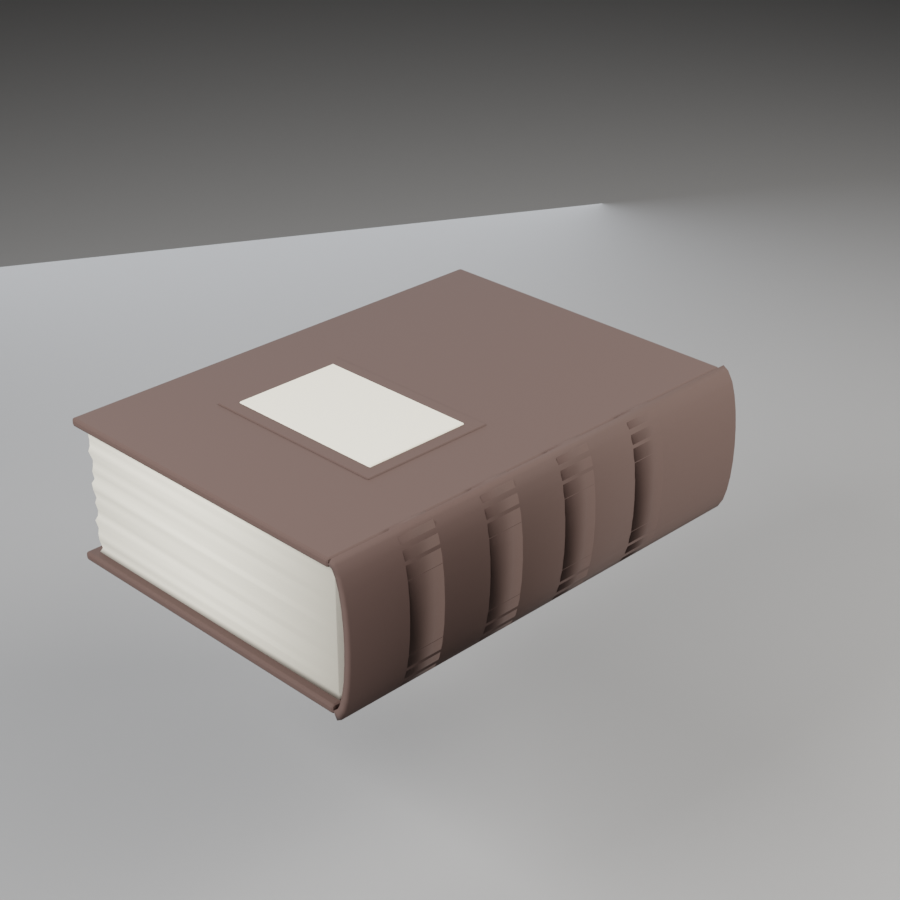
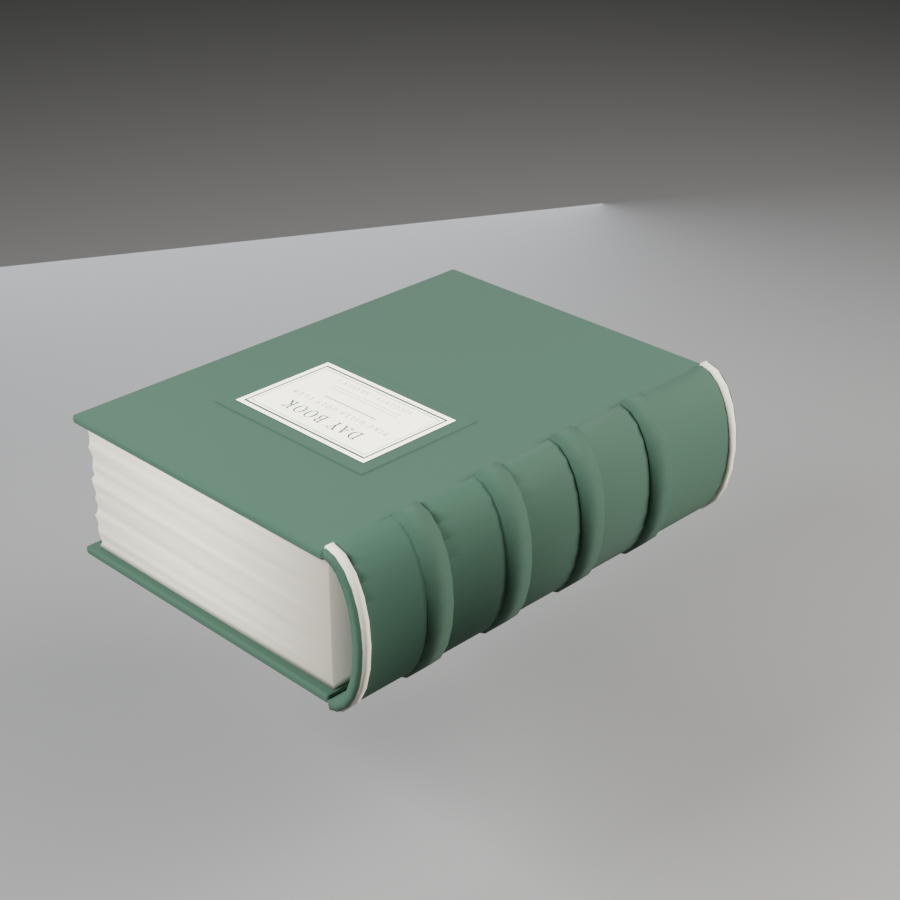
Round 2: green ledger with a titled cover, and a grocery sack instead of a tote
THE LEDGER. Green cloth on both states. A proper rounded back -- at 0.34 of the
spine radius it bulged 10mm on a book 95mm thick and read as a flat card with
its edges bent; it is 0.72 now. Four raised bands and cream endbands at head
and tail.

The bands were z-fighting. Their outer surface landed 0.1mm from the spine's
own outer surface, so they rendered as flickering stripes rather than ridges --
an offset has to clear the host's SHELL THICKNESS, not just its curve. The
endbands were worse: entirely buried inside the spine's 5.5mm shell and never
drawn at all.

The cover label carries words now (DAY BOOK / PINE HILLS GOLF CLUB / ACCOUNTS),
and it is a UV-mapped QUAD rather than a box. HS.box makes no UV layer at all,
so a textured material on one samples whatever it lands on -- the basket badge
shipped scrambled white marks that way.

THE BAG. It read as a boutique tote, so: sharp corner creases (0.0038 from
0.0075), a deeper side gusset, a once-folded top CUFF instead of a curled
rolled rim, and the slump cut to a quarter of what it was. A grocery sack in
these games is a clean rectangular prism with hard creases.

The handles are flat kraft STRAPS. They were already a rectangular section --
the reason thinning them never worked is that they were SMOOTH SHADED, and
smooth shading across four faces rounds a strap right back into a cord.

Interior re-measured after all of it: floor 0.3249 x 0.1860, opening
[…]

Changed region(s): [[0.0622, 0.28, 0.84, 0.8089]]

diff --git a/tools/blender/hero/build_ledger.py b/tools/blender/hero/build_ledger.py
@@ -211,7 +211,7 @@ def build(opened=True, broken=False):
     sol.offset = 0.0
     parts["ribbon"] = HS.apply_mods(ribbon)
 
-    cloth = HS.pbr("LedgerCloth", (0.042, 0.021, 0.016), roughness=0.88)
+    cloth = HS.pbr("LedgerCloth", (0.018, 0.052, 0.031), roughness=0.86)
     paper = HS.pbr_textured(
         "LedgerPaper",
         os.path.join(REPO, "Assets", "models", "hero", "textures", "ledger_page.png"),
@@ -232,7 +232,7 @@ def build(opened=True, broken=False):
 def spine_arc(y0, y1, r_extra=0.0, seg=13, name="LedgerSpine", thick=BOARD_T):
     """The spine as a half-round wrapping from the back board to the front one."""
     verts, faces = [], []
-    r = SPINE_R * 0.34
+    r = SPINE_R * 0.72
     hgt = BLOCK_T + BOARD_T * 0.5
     for k in range(seg):
         a = math.pi * (k / (seg - 1)) - math.pi / 2
@@ -292,21 +292,46 @@ def build_closed(broken=""):
 
     # raised bands: four ridges across the spine, which is what a bound ledger
     # has and what stops the spine reading as a bent card
-    parts["bands"] = [spine_arc(-half_y + (0.22 + i * 0.19) * half_y * 2,
-                                -half_y + (0.30 + i * 0.19) * half_y * 2,
-                                r_extra=0.0026, seg=11,
-                                name=f"SpineBand_{i}", thick=BOARD_T * 0.55)
+    # r_extra 0.0042 with a 0.0034 shell. At 0.0026/0.0030 the band's OUTER
+    # surface landed 0.1 mm from the spine's own outer surface and the two
+    # z-fought -- the bands rendered as flickering stripes rather than ridges.
+    # The offset has to clear the host's shell thickness, not just its curve.
+    parts["bands"] = [spine_arc(-half_y + (0.205 + i * 0.195) * half_y * 2,
+                                -half_y + (0.262 + i * 0.195) * half_y * 2,
+                                r_extra=0.0042, seg=11,
+                                name=f"SpineBand_{i}", thick=0.0034)
                       for i in range(4)]
+
+    # endbands at head and tail -- the detail that says "sewn" rather than
+    # "glued", and the one place the spine gets a second tone
+    # same reason: at 0.0016 the endband was entirely buried inside the spine's
+    # own 5.5 mm shell and never appeared at all
+    parts["endbands"] = [spine_arc(sy * (half_y - 0.0072), sy * (half_y - 0.0018),
+                                   r_extra=0.0040, seg=11,
+                                   name=f"EndBand_{i}", thick=0.0026)
+                         for i, sy in enumerate((-1, 1))]
 
     # a pasted title label on the front board
     parts["frame"] = HS.apply_mods(HS.box(
         "CoverLabelFrame", ((PAGE_W + sq) * 0.5, PAGE_D * 0.14,
                             TB * 0.5 + BOARD_T + 0.0002),
         (PAGE_W * 0.60, PAGE_D * 0.30, 0.0012), bevel=0.0006, segments=1))
-    parts["label"] = HS.apply_mods(HS.box(
-        "CoverLabel", ((PAGE_W + sq) * 0.5, PAGE_D * 0.14,
-                       TB * 0.5 + BOARD_T + 0.0009),
-        (PAGE_W * 0.52, PAGE_D * 0.24, 0.0014), bevel=0.0006, segments=1))
+    # A QUAD with UVs from vertex position, not a box. HS.box makes no UV layer
+    # at all, so a textured material on one samples whatever it lands on -- the
+    # basket badge shipped scrambled white marks that way. Position-derived UVs
+    # are also winding-independent, and recalc_normals reorders loops.
+    lw, ld = PAGE_W * 0.52, PAGE_D * 0.24
+    lcx, lcy = (PAGE_W + sq) * 0.5, PAGE_D * 0.14
+    lz = TB * 0.5 + BOARD_T + 0.0011
+    lv = [Vector((lcx + sx * lw * 0.5, lcy + sy * ld * 0.5, lz))
+          for (sx, sy) in ((-1, -1), (1, -1), (1, 1), (-1, 1))]
+    label = HS.mesh_from("CoverLabel", lv, [(0, 1, 2, 3)])
+    uv = label.data.uv_layers.new(name="UVMap")
+    for li in label.data.polygons[0].loop_indices:
+        co = label.data.vertices[label.data.loops[li].vertex_index].co
+        uv.data[li].uv = ((co.x - (lcx - lw * 0.5)) / lw,
+                          (co.y - (lcy - ld * 0.5)) / ld)
+    parts["label"] = label
 
     # the ribbon out of the tail, lying over the board
     rv, rf = [], []
@@ -325,13 +350,19 @@ def build_closed(broken=""):
     sol.thickness, sol.offset = 0.0006, 0.0
     parts["ribbon"] = HS.apply_mods(rib)
 
-    cloth = HS.pbr("LedgerCloth", (0.042, 0.021, 0.016), roughness=0.88)
+    cloth = HS.pbr("LedgerCloth", (0.018, 0.052, 0.031), roughness=0.86)
     board_paper = HS.pbr("LedgerBlockEdge", (0.480, 0.452, 0.386), roughness=0.95)
     silk = HS.pbr("LedgerRibbon", (0.185, 0.032, 0.030), roughness=0.62)
+    plate = HS.pbr_textured(
+        "LedgerLabel",
+        os.path.join(REPO, "Assets", "models", "hero", "textures",
+                     "ledger_label.png"), roughness=0.92)
     for o in boards + [parts["spine"]] + parts["bands"] + [parts["frame"]]:
         o.data.materials.append(cloth)
     parts["blocks"][0].data.materials.append(board_paper)
-    parts["label"].data.materials.append(board_paper)
+    for o in parts["endbands"]:
+        o.data.materials.append(board_paper)
+    parts["label"].data.materials.append(plate)
     parts["ribbon"].data.materials.append(silk)
     parts["square"] = sq
     return parts
@@ -366,6 +397,8 @@ def main():
             HS.assert_touching(b, p["spine"], "a board must meet the spine", 0.0030)
         HS.assert_rooted(p["bands"], p["spine"], "the raised spine bands",
                          min_verts=3, min_depth=0.0004)
+        HS.assert_rooted(p["endbands"], p["spine"], "the head and tail endbands",
+                         min_verts=3, min_depth=0.0004)
         HS.assert_touching(p["label"], p["boards"][1],
                            "the cover label must be on the front board", 0.0020)
         # THE SQUARE: a hardback's boards overhang its block, and a block that
@@ -382,10 +415,10 @@ def main():
                 f"proud of its cover and the book does not read as bound")
         print(f"  square assertion passed: the board overhangs the block by "
               f"{(cx - bx) * 1000:.2f} mm at the fore-edge")
-        subject = (p["boards"] + [p["spine"]] + p["bands"] + p["blocks"]
-                   + [p["frame"], p["label"], p["ribbon"]])
-        print(f"TRIS {H.triangles(subject)} ({len(subject)} objects, 3 materials) "
-              f"— the hand is 5,179")
+        subject = (p["boards"] + [p["spine"]] + p["bands"] + p["endbands"]
+                   + p["blocks"] + [p["frame"], p["label"], p["ribbon"]])
+        print(f"TRIS {H.triangles(subject)} ({len(subject)} objects, "
+              f"4 materials) — the hand is 5,179")
         lo, hi = H.bounds(subject)
         print(f"  overall {hi.x - lo.x:.4f} x {hi.y - lo.y:.4f} x "
               f"{hi.z - lo.z:.4f} yd   (CLOSED)")

diff --git a/tools/blender/hero/build_bag.py b/tools/blender/hero/build_bag.py
@@ -42,9 +42,9 @@ WIDTH = 0.33333          # 12"
 DEPTH = 0.19444          # 7"
 HEIGHT = 0.47222         # 17"
 WALL = 0.0042            # paper plus the stiffness a standing bag needs
-CORNER = 0.0075          # the corner crease radius: nearly sharp
-GUSSET = 0.0075          # how far the side-panel centre crease pulls in
-RIM_ROLL = 0.0180        # the folded-over top band
+CORNER = 0.0038          # the corner crease: sharp, the way a folded sack is
+GUSSET = 0.0112          # how far the side-panel centre crease pulls in
+RIM_ROLL = 0.0165        # the once-folded top cuff
 GAME_SCALE = 1.35        # BAG_PRESENTATION_SCALE, applied by the game
 # What the checkout has to be able to drop in.
 LOAD = (0.190, 0.115, 0.230)
@@ -104,9 +104,9 @@ def section(z, inset=0.0, flare=0.0, crease=True):
 # those survive it. All of the following is DETERMINISTIC -- reproducible builds
 # matter more than statistically good noise, so it is a fixed harmonic sum
 # rather than anything seeded by a clock.
-USE_BOW = 0.0105         # how far a wall panel bows in or out at mid-height
-USE_RIM = 0.0068         # how far the rim wanders off a true rectangle
-USE_LEAN = 0.0060        # the whole carrier leans, because bags do
+USE_BOW = 0.0034         # how far a wall panel bows in or out at mid-height
+USE_RIM = 0.0022         # how far the rim wanders off a true rectangle
+USE_LEAN = 0.0018        # the whole carrier leans, because bags do
 FOLD_H = 0.0016          # the ridge left by having been flattened
 
 
@@ -173,8 +173,8 @@ def build(broken=False):
     for (t, flare) in ((0.000, 0.0), (0.030, 0.0006), (0.300, 0.0016),
                        (0.620, 0.0022), (0.880, 0.0024), (0.955, 0.0022)):
         rings.append(used(section(HEIGHT * t, flare=flare), t))
-    for (t, f, rim) in ((0.985, 0.30, 0.8), (1.000, 0.42, 1.0),
-                        (0.985, 0.52, 0.9), (0.952, 0.46, 0.6)):
+    for (t, f, rim) in ((0.9560, 0.00, 0.4), (0.9585, 0.34, 0.4),
+                        (1.0000, 0.36, 1.0), (1.0010, 0.10, 1.0)):
         rings.append(used(section(HEIGHT * t, flare=0.0022 + RIM_ROLL * f),
                           t, rim=USE_RIM * rim))
     outer = loft("BagOuter", rings)
@@ -212,24 +212,24 @@ def build(broken=False):
     handles = []
     for side in (-1, 1):
         pts, faces = [], []
-        STEPS, RING = 13, 6
+        STEPS, RING = 13, 4
         for s in range(STEPS):
             t = s / (STEPS - 1)
             a = math.pi * t
-            cx = math.cos(a) * (WIDTH * 0.27)
-            cz = HEIGHT * 0.952 - 0.014 + math.sin(a) * (HEIGHT * 0.23)
+            cx = math.cos(a) * (WIDTH * 0.315)
+            cz = HEIGHT * 0.952 - 0.016 + math.sin(a) * (HEIGHT * 0.185)
             cy = side * (DEPTH * 0.5 - GUSSET * 0.4)
             dirv = Vector((-math.sin(a), 0, math.cos(a)))
             u = Vector((0, 1, 0))
             v = dirv.cross(u).normalized()
-            for k in range(RING):
-                b = 2 * math.pi * k / RING
-                # a flat ribbon, not a cord
-                # Flat kraft RIBBON: 1.8 thin against the panel, 10.5 wide.
-                # At 2.6 x 7.2 it still read as round cord.
+            for (su, sv) in ((-1, -1), (1, -1), (1, 1), (-1, 1)):
+                # a rectangular STRAP: two flat faces and four corners. A
+                # six-point ellipse still catches light like a cord however
+                # thin it is made, and that is what made the bag read as a
+                # boutique tote instead of a grocery sack.
                 pts.append(Vector((cx, cy, cz))
-                           + u * (math.cos(b) * 0.0018)
-                           + v * (math.sin(b) * 0.0105))
+                           + u * (su * 0.0019)
+                           + v * (sv * 0.0132))
         for s in range(STEPS - 1):
             for k in range(RING):
                 q = (k + 1) % RING
@@ -238,8 +238,11 @@ def build(broken=False):
         faces.append(tuple(range(RING - 1, -1, -1)))
         base = (STEPS - 1) * RING
         faces.append(tuple(range(base, base + RING)))
+        # FLAT shaded. The section is already a rectangle, but smooth shading
+        # across four faces rounds it right back into a cord -- which is why
+        # thinning the ellipse never fixed the read. A strap needs its creases.
         handles.append(HS.mesh_from(f"BagHandle_{'F' if side < 0 else 'B'}",
-                                    pts, faces, smooth=True))
+                                    pts, faces, smooth=False))
     parts["handles"] = handles
 
     kraft = HS.pbr_textured(
